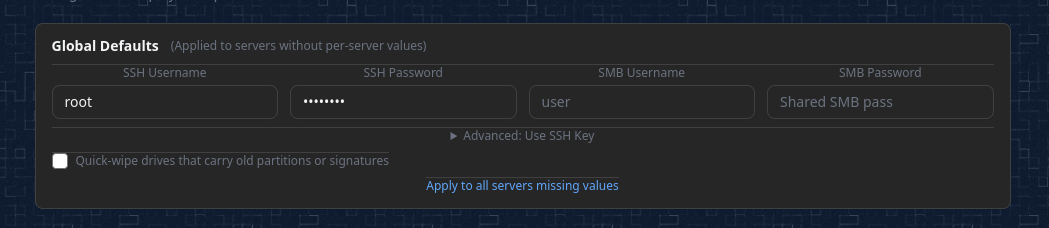
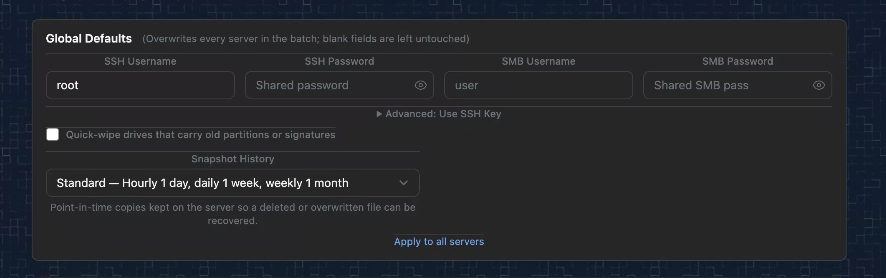
updates images + macOS permission prompts

diff --git a/src/renderer/views/backupSetupWizard/CompleteBackUpCreationView.vue b/src/renderer/views/backupSetupWizard/CompleteBackUpCreationView.vue
@@ -35,6 +35,25 @@
             Backups require this computer and the backup server to be powered on at scheduled times.
           </p>
         </div>
+
+        <div v-if="needsFullDiskAccess" class="mt-4 w-full p-3 text-sm bg-yellow-500/40 rounded-md space-y-2">
+          <p>
+            <strong>One more step — turn on Full Disk Access.</strong>
+            You're backing up a folder macOS protects, so the background backup service needs
+            Full Disk Access or your scheduled backups will fail. macOS gives no way to ask for
+            this automatically, so it has to be switched on by hand. It only takes a moment and
+            you only do it once.
+          </p>
+          <button type="button" class="btn btn-secondary h-fit" @click="openFdaSettings">
+            Open Full Disk Access settings
+          </button>
+          <p class="text-xs opacity-80">
+            <strong>StorageWizardBackup</strong> is already in the list with its switch turned
+            <strong>off</strong> — turn it on. If it isn't listed, drag it in from the Finder window
+            that opens, or use the + button and press ⌘⇧G to paste:
+            <code>{{ fdaDaemonPath }}</code>
+          </p>
+        </div>
       </div>
 
     </div>
@@ -65,7 +84,7 @@ import { CardContainer, useEnterToAdvance } from "@45drives/houston-common-ui";
 import { ref, watch, inject, onActivated, onBeforeUnmount } from "vue";
 import { useWizardSteps} from "@45drives/houston-common-ui";
 import { EasySetupProgress, IPCRouter } from "@45drives/houston-common-lib";
-import { backUpSetupConfigKey, closeWizardModalKey } from "../../keys/injection-keys";
+import { backUpSetupConfigKey, closeWizardModalKey, thisOsInjectionKey } from "../../keys/injection-keys";
 import type { BackUpSetupConfig } from "@45drives/houston-common-lib";
 import { useHeader } from '../../composables/useHeader'
 import { useRouter } from 'vue-router'
@@ -79,12 +98,36 @@ const error = ref<string>();
 const completedSteps = ref<EasySetupProgress[]>([]);
 const backUpSetupConfig = inject(backUpSetupConfigKey);
 const closeWizardModal = inject(closeWizardModalKey, () => router.push({ name: 'backup-manage' }));
+const thisOs = inject(thisOsInjectionKey);
 
-watch(setupComplete, (value) => {
+const needsFullDiskAccess = ref(false);
+const fdaDaemonPath = ref('');
+
+const openFdaSettings = () => window.electron.macOpenFdaSettings();
+
+watch(setupComplete, async (value) => {
   if (value === "yes" && backUpSetupConfig) {
+    // Read before the task list is cleared below.
+    if (thisOs === 'mac') await checkFullDiskAccess(backUpSetupConfig.backUpTasks.map(t => t.source));
     backUpSetupConfig.backUpTasks = [];
   }
 });
+
+/**
+ * Scheduling has already primed the app's own TCC prompts, so by now the daemon has been
+ * installed and has reported whether it holds Full Disk Access. Only warn when a source
+ * actually sits in a protected location.
+ */
+async function checkFullDiskAccess(sources: string[]): Promise<void> {
+  for (const source of sources) {
+    const fda = await window.electron.macFdaStatus(source);
+    if (fda?.supported && fda.sourceNeedsAccess && fda.status !== 'granted') {
+      fdaDaemonPath.value = fda.daemonPath;
+      needsFullDiskAccess.value = true;
+      return;
+    }
+  }
+}
 
 function goToBackupWizard(): void {
 

diff --git a/src/main/backup/BackUpManagerMac.ts b/src/main/backup/BackUpManagerMac.ts
@@ -13,6 +13,7 @@ import {
   ensureBackupDaemon,
   ensureUserDirs,
   isDaemonInstalled,
+  primeTccAccess,
   releaseTaskLock,
   removeLegacyCronLines,
   taskLockHolder,
@@ -120,6 +121,9 @@ export class BackUpManagerMac implements BackUpManager {
     this.prepareRuntime(safeHost, safeShare, safeUser);
     this.writeTaskScript(task, safeUser);
 
+    // After the script exists, so a declined prompt still leaves a usable task.
+    primeTccAccess(safeHost, safeShare, safeUser, [task.source]);
+
     // Sync backup config to broadcaster API (best-effort, non-blocking)
     syncBackupConfig(safeHost, username, password, task, getClientId()).catch(() => { });
 
@@ -138,6 +142,7 @@ export class BackUpManagerMac implements BackUpManager {
     const safeUser = assertSafeUsername(username);
     const clientId = getClientId();
     const prepared = new Set<string>();
+    const sourcesByShare = new Map<string, { host: string; share: string; sources: string[] }>();
 
     for (let i = 0; i < total; i++) {
       const task = tasks[i];
@@ -154,9 +159,19 @@ export class BackUpManagerMac implements BackUpManager {
         this.prepareRuntime(task.host, task.share, safeUser);
       }
 
+      const group = sourcesByShare.get(key) ?? { host: task.host, share: task.share, sources: [] };
+      group.sources.push(task.source);
+      sourcesByShare.set(key, group);
+
       this.writeTaskScript(task, safeUser);
       syncBackupConfig(task.host, username, password, task, clientId).catch(() => { });
       onProgress?.(i + 1, total, `Scheduled task ${task.uuid}`);
+    }
+
+    // Once every script is on disk, so a declined prompt still leaves usable tasks.
+    for (const { host, share, sources } of sourcesByShare.values()) {
+      onProgress?.(total, total, 'Requesting macOS permissions');
+      primeTccAccess(host, share, safeUser, sources);
     }
   }
 

diff --git a/src/renderer/views/backupSetupWizard/SummaryView.vue b/src/renderer/views/backupSetupWizard/SummaryView.vue
@@ -22,14 +22,13 @@
 
       <div v-if="thisOs === 'mac'" class="p-2 text-sm bg-blue-500/30 rounded-md space-y-1">
         <p>
-          <strong>macOS will ask for permission the first time this backup runs.</strong>
-          You'll see one or more prompts from <span class="font-mono">StorageWizardBackup</span> — the
-          background service that copies your files — asking to access folders such as Desktop,
-          Documents, Downloads or a connected drive.
+          <strong>macOS will ask for permission when you click Next.</strong>
+          You'll see one or more prompts asking to access the backup share and folders such as
+          Desktop, Documents or Downloads.
         </p>
         <p>
-          Click <span class="font-semibold">Allow</span> on each one. macOS asks once per protected
-          folder, so you won't be prompted again for the same folders on later runs.
+          Click <span class="font-semibold">Allow</span> on each one. We ask now rather than at
+          your first scheduled backup, so nothing fails while you're away from the computer.
         </p>
       </div>
 
@@ -47,8 +46,9 @@
           Open Full Disk Access settings
         </button>
         <p class="text-xs opacity-80">
-          The service will be revealed in Finder — drag it into the list, or use the + button and
-          press ⌘⇧G to paste: <code>{{ fdaDaemonPath }}</code>
+          <strong>StorageWizardBackup</strong> is already in the list with its switch turned
+          <strong>off</strong> — turn it on. If it isn't listed, drag it in from the Finder window
+          that opens, or use the + button and press ⌘⇧G to paste: <code>{{ fdaDaemonPath }}</code>
         </p>
       </div>
 

diff --git a/src/main/backup/macDaemon.ts b/src/main/backup/macDaemon.ts
@@ -293,6 +293,50 @@ export function revealDaemonBinary(): void {
 }
 
 /**
+ * Touch everything a task will need so TCC raises its prompts now, during task creation,
+ * rather than at the first scheduled run. An unattended run has no GUI session, so TCC
+ * denies it silently instead of asking — a user who never saw a prompt would just find
+ * failed backups. Prompts raised here are attributed to the app and cover app-initiated
+ * runs only; the daemon is a separate executable and still needs its own Full Disk Access
+ * grant, which macOS offers no way to request.
+ *
+ * Every step is best-effort: an unreachable server or a denied folder must not block task
+ * creation, because the prompt having been shown is the whole point.
+ */
+export function primeTccAccess(
+  host: string,
+  share: string,
+  username: string,
+  sources: string[]
+): void {
+  for (const source of sources) {
+    try {
+      fs.readdirSync(source);
+    } catch {
+      /* denied, or gone since it was picked */
+    }
+  }
+
+  try {
+    const script = getAssetSync("static", "mount_smb_mac.sh");
+    execFileSync("/bin/bash", [script, host, share, username, "silent"], {
+      encoding: "utf8",
+      timeout: 60_000,
+    });
+  } catch {
+    /* share unreachable or credentials not exported yet */
+  }
+
+  // Separate from the mount: the network-volume prompt is raised by reading the volume,
+  // not by mounting it.
+  try {
+    fs.readdirSync(resolveMacShareRoot(share));
+  } catch {
+    /* not mounted */
+  }
+}
+
+/**
  * Drop the crontab lines written by the pre-daemon implementation. User-level, so no
  * prompt; safe to call on every schedule operation.
  */export function removeLegacyCronLines(): void {

diff --git a/docs/45Drives_Storage_Wizard_User_Guide.md b/docs/45Drives_Storage_Wizard_User_Guide.md
@@ -232,9 +232,11 @@ With the `.dmg`, the background service is not installed up front. The first tim
 
 ![macOS DMG install — drag the app into Applications](images/install-macos-dmg.png)
 <!-- SCREENSHOT: The mounted .dmg window showing the 45Drives Storage Wizard icon and the arrow pointing at the Applications folder alias. -->
-<!-- SCREENSHOT NEEDED (images/install-macos-pkg.png): The macOS Installer running the .pkg, on the Installation Type or authentication step, showing the 45Drives Storage Wizard name and the administrator password prompt. Add the image reference above this comment once captured. -->
 
-> **Important:** Local Backups on macOS run from a system background service, not from cron, so they keep running when you are signed out. That service is installed at `/Library/Application Support/45Drives/Houston/bin/StorageWizardBackup`. If you back up a protected folder — Desktop, Documents, Downloads, iCloud Drive, your Photos library, or an external volume under `/Volumes` — you must grant that file **Full Disk Access** under **System Settings → Privacy & Security → Full Disk Access**. The app detects this and walks you through it on the backup Summary screen.
+![macOS PKG install — the Installer running](images/install-macos-pkg.png)
+<!-- SCREENSHOT: The macOS Installer running the .pkg, on the Installation Type or authentication step, showing the 45Drives Storage Wizard name and the administrator password prompt. -->
+
+> **Important:** Local Backups on macOS run from a system background service, not from cron, so they keep running when you are signed out. That service is installed at `/Library/Application Support/45Drives/Houston/bin/StorageWizardBackup`. If you back up a protected folder — Desktop, Documents, Downloads, iCloud Drive, your Photos library, or an external volume under `/Volumes` — you must switch that file on under **System Settings → Privacy & Security → Full Disk Access**. macOS never prompts for Full Disk Access, so this toggle has to be turned on by hand; the app detects the situation and walks you through it on the backup Summary screen. See [What macOS Asks For](#what-macos-asks-for-macos-only).
 
 ### Linux
 
@@ -392,7 +394,8 @@ Whenever something is actually running, an extra **In Progress** section appears
 
 This means you can close the Backup Manager and still keep an eye on a long transfer from anywhere in the app.
 
-<!-- SCREENSHOT NEEDED (images/menu-in-progress.png): The same menu panel with a backup running, so the In Progress section is visible — at least one backup card with its progress bar and Stop Backup button, ideally alongside a restore card showing View Restore and Cancel. Add the image reference above this comment once captured. -->
+![Menu — In Progress section](images/menu-in-progress.png)
+<!-- SCREENSHOT: The menu panel with a backup running, so the In Progress section is visible — at least one backup card with its progress bar and Stop Backup button, ideally alongside a restore card showing View Restore and Cancel. -->
 
 ### Settings
 
@@ -1093,14 +1096,63 @@ The screen lists the **Backup Location** and every **Backup Task** with its sour
 
 ![Local backup — Summary](images/local-backup-03-summary.png)
 <!-- SCREENSHOT: The Summary step showing the Backup Location line and the scrollable list of task cards, each with Source, Frequency and Starts values. -->
-<!-- SCREENSHOT NEEDED (images/local-backup-03-summary-macos.png): The same Summary step captured on macOS, showing the first-run admin-password notice, the "macOS will ask for permission the first time this backup runs" box, and the amber "Full Disk Access required" box with its Open Full Disk Access settings button and the StorageWizardBackup path. Add the image reference above this comment once captured. -->
+
+![Local backup — Summary on macOS](images/local-backup-03-summary-macos.png)
+<!-- SCREENSHOT: The same Summary step captured on macOS, showing the first-run admin-password notice, the permission notice, and the amber "Full Disk Access required" box with its Open Full Disk Access settings button and the StorageWizardBackup path. -->
 
 Platform-specific notices appear here:
 
 - **Linux:** *"On Linux, if this is your first backup, you will be prompted for your admin password to set up the server connection."*
 - **macOS (`.dmg` installs, first backup only):** *"On macOS, the first backup installs a background service so your backups keep running when you're signed out. You'll be asked for your admin password once."* If you installed with the `.pkg`, this step already happened during installation and you will not be asked again.
-- **macOS (all installs):** *"macOS will ask for permission the first time this backup runs."* The prompts come from `StorageWizardBackup`, the background service. Click **Allow** on each one — macOS asks once per protected folder.
-- **macOS (protected folders only):** If a folder you chose is one macOS locks down — Desktop, Documents, Downloads, iCloud Drive, your Photos library, or an external volume under `/Volumes` — a **Full Disk Access required** box appears with an **Open Full Disk Access settings** button. Clicking it opens the right System Settings pane and reveals the service in Finder so you can drag it into the list. You can also use the **+** button and press **⌘⇧G** to paste the path shown on screen.
+- **macOS (all installs):** *"macOS will ask for permission when you click Next."*
+- **macOS (protected folders only):** A **Full Disk Access required** box appears if a folder you chose is one macOS locks down — Desktop, Documents, Downloads, iCloud Drive, your Photos library, or an external volume under `/Volumes`.
+
+The next section explains each of the macOS prompts in the order you will see them.
+
+### What macOS Asks For (macOS only)
+
+Three separate things happen on macOS, and they are easy to confuse because they all look like permission prompts. Only the last one has to be done by hand, and skipping it is the single most common reason scheduled backups silently stop working.
+
+#### 1. "Background Items Added"
+
+Right after the background service is installed — during the `.pkg` install, or at your first backup if you used the `.dmg` — macOS shows a notification in the corner of the screen.
+
+![macOS Background Items Added notification](images/local-backup-macos-background-items.png)
+<!-- SCREENSHOT: The macOS "Background Items Added" notification reading "Software from 'Protocase Incorporated' added items that can run in the background." -->
+
+It reads *"Software from 'Protocase Incorporated' added items that can run in the background."* **Protocase Incorporated is the correct name** — Protocase is 45Drives' parent company and the certificate the app is signed with, so the notification will not say 45Drives. Nothing is required of you; the notification is informational and disappears on its own. The item it refers to is the backup service, and you can see it listed under **System Settings → General → Login Items & Extensions**.
+
+#### 2. "Would like to access files on a network volume"
+
+When you click **Next** on the Summary step, the app deliberately reaches for the backup share and for each folder you chose. That makes macOS raise its permission prompts there and then, while you are sitting in front of the wizard.
+
+![macOS network volume permission prompt](images/local-backup-macos-access-volume.png)
+<!-- SCREENSHOT: The macOS TCC prompt reading "45Drives-Storage-Wizard.app would like to access files on a network volume." with Don't Allow and Allow buttons. -->
+
+Click **Allow**. Backups cannot write to the server without it. You may also see prompts for Desktop, Documents or Downloads if you selected folders there; click **Allow** on each.
+
+These are asked up front on purpose. If they were left until the first scheduled backup, that backup would run with nobody signed in, macOS would have no one to ask, and it would quietly refuse instead of prompting.
+
+This grant is recorded under **System Settings → Privacy & Security → Files and Folders**, *not* under Full Disk Access — allowing it does not tick anything in the Full Disk Access list, and that is expected rather than a failure.
+
+#### 3. Full Disk Access — the one you must turn on yourself
+
+This step is only needed when a backup source lives in a folder macOS protects: Desktop, Documents, Downloads, iCloud Drive, your Photos library, or an external volume under `/Volumes`. A backup of any other folder needs nothing here.
+
+**macOS provides no way for an application to ask for Full Disk Access.** There is no prompt, and no amount of clicking **Allow** elsewhere will grant it. It has to be switched on manually, once.
+
+![macOS Full Disk Access list](images/local-backup-macos-FDA.png)
+<!-- SCREENSHOT: System Settings → Privacy & Security → Full Disk Access with StorageWizardBackup visible in the list and its toggle switched on. -->
+
+`StorageWizardBackup` appears in the Full Disk Access list on its own, **with the toggle off**. The backup service checks its own permission each time it wakes, and that check is what makes macOS list it. Seeing the entry there does not mean it has been granted — you have to flick the switch.
+
+If a grant is needed, the **Congratulations** step at the end of the wizard says so and offers the same **Open Full Disk Access settings** button, so you are told before you leave the wizard rather than finding out from a failed backup.
+
+1. Click **Open Full Disk Access settings**. This opens the correct System Settings pane and reveals the service in Finder.
+2. Find **StorageWizardBackup** in the list and turn its toggle **on**.
+3. If it is not listed, drag it in from the Finder window that opened, or click **+** and press **⌘⇧G** to paste the path shown in the wizard: `/Library/Application Support/45Drives/Houston/bin/StorageWizardBackup`.
+
+> **Why this matters:** backups you run yourself from inside the app may succeed without this, because they inherit the app's own permissions. Scheduled backups do not — they run as a background service with no one signed in, macOS cannot display a prompt to anybody, and the copy fails with a permission error. If your source folders are protected ones, grant Full Disk Access before you rely on the schedule.
 
 ### Step 4: Congratulations
 
@@ -1877,6 +1929,12 @@ It checks for updates shortly after launch and tells you when one is available, 
 **Do I need a different macOS download for my Mac?**
 No. There is a single universal macOS build that runs natively on both Apple Silicon and Intel. The older `arm64` and `x64` downloads no longer exist. Choose the `.pkg` if you plan to use Local Backups — it installs the background backup service during installation, so the app never has to ask you for an administrator password later.
 
+**Why does macOS say "Protocase Incorporated" added a background item?**
+That is expected. Protocase is 45Drives' parent company and the identity the app is code-signed with, so macOS shows that name rather than 45Drives. The background item it refers to is the backup service that runs your scheduled Local Backups.
+
+**I clicked Allow on the macOS permission prompt, but Full Disk Access is still switched off. Did it fail?**
+No — they are two different permissions. The prompt that asks to *"access files on a network volume"* grants the app access to the backup share and is recorded under Privacy & Security → Files and Folders. Full Disk Access is a separate permission belonging to the background service, and macOS has no way to prompt for it at all. If you back up a protected folder, you must switch **StorageWizardBackup** on yourself in System Settings → Privacy & Security → Full Disk Access. The wizard tells you on the Congratulations step when this is needed.
+
 ---
 
 ## 19. Troubleshooting
@@ -1893,7 +1951,7 @@ No. There is a single universal macOS build that runs natively on both Apple Sil
 | **Server Management keeps asking for the admin password** | That is expected for destructive changes. Confirm once and it stays unlocked for five minutes — the amber **Admin unlocked** badge in the header shows how long is left. |
 | **A server shows "Backup only" and its storage is blank** | It was added with **Connect for Backup Only**, so no admin credential is stored here. Backups still run. Open Server Management and click **Add Admin Credentials** to manage it. |
 | **Local backup fails with invalid credentials** | Re-check the Samba username and password. These are the User Name and Password you created during Super Simple Setup, not your computer's login. |
-| **Local backups never run on macOS** | Local Backups run from a background service, not cron. Open the backup's Summary screen — if it shows **Full Disk Access required**, click **Open Full Disk Access settings** and add `/Library/Application Support/45Drives/Houston/bin/StorageWizardBackup` to the list in System Settings → Privacy & Security. If you installed from the `.dmg`, also confirm you entered your administrator password when the first backup asked for it. |
+| **Local backups never run on macOS** | Local Backups run from a background service, not cron. Open **System Settings → Privacy & Security → Full Disk Access** and check that **StorageWizardBackup** is present *and its toggle is on* — it lists itself with the toggle off, and macOS never prompts you to turn it on. If it is missing, open the backup's Summary screen and click **Open Full Disk Access settings**, then add `/Library/Application Support/45Drives/Houston/bin/StorageWizardBackup`. If you installed from the `.dmg`, also confirm you entered your administrator password when the first backup asked for it. |
 | **Local backups never run on Linux** | Linux schedules Local Backups with cron, and the first one needs your admin password to set up the server connection. Re-run the wizard and supply it when prompted. |
 | **Remote backup task fails** | Select the task and click **Logs**. Check that the destination path exists and that the remote user has write permission. |
 | **Cloud sign-in window never opens** | Allow pop-ups for the app and click **Authenticate with `<Provider>`** again. |
